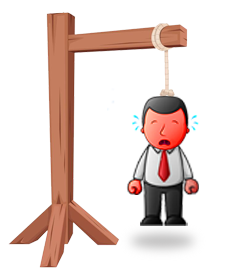
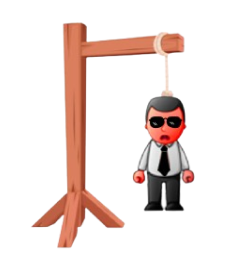
AAAAAAAA

Changed region(s): [[0.0299, 0.0294, 0.8675, 1.0]]

diff --git a/js/forca.js b/js/forca.js
@@ -126,22 +126,22 @@ async function atraso(tempo){
 function carregaImagemForca(){
     switch(tentativas){
         case 5:
-            document.getElementById("imagem").style.background  = "url('./img/forca01.png')";
+            document.getElementById("imagem").style.background  = "url('./img/cabeça.png')";
             break;
         case 4:
-            document.getElementById("imagem").style.background  = "url('./img/forca02.png')";
+            document.getElementById("imagem").style.background  = "url('./img/corpo.png')";
             break;
         case 3:
-            document.getElementById("imagem").style.background  = "url('./img/forca03.png')";
+            document.getElementById("imagem").style.background  = "url('./img/1braço.png')";
             break;
         case 2:
-            document.getElementById("imagem").style.background  = "url('./img/forca04.png')";
+            document.getElementById("imagem").style.background  = "url('./img/2braço.png')";
             break;
         case 1:
-            document.getElementById("imagem").style.background  = "url('./img/forca05.png')";
+            document.getElementById("imagem").style.background  = "url('./img/1perna.png')";
             break;
         case 0:
-            document.getElementById("imagem").style.background  = "url('./img/forca06.png')";
+            document.getElementById("imagem").style.background  = "url('./img/morreu.png')";
             break;
         default:
             document.getElementById("imagem").style.background  = "url('./img/forca.png')";

diff --git a/forca.html b/forca.html
@@ -97,7 +97,7 @@
         </div>
     </div>
     
-    <div id="status">Modo Automático</div>
+    
     <button id="abreModalAddPalavra"><i class='bx bx-message-square-add'></i></button>
    
     <button id="jogarAutomatico" onclick="listaAutomatica()"><i class='bx bx-pause-circle'></i></button>
